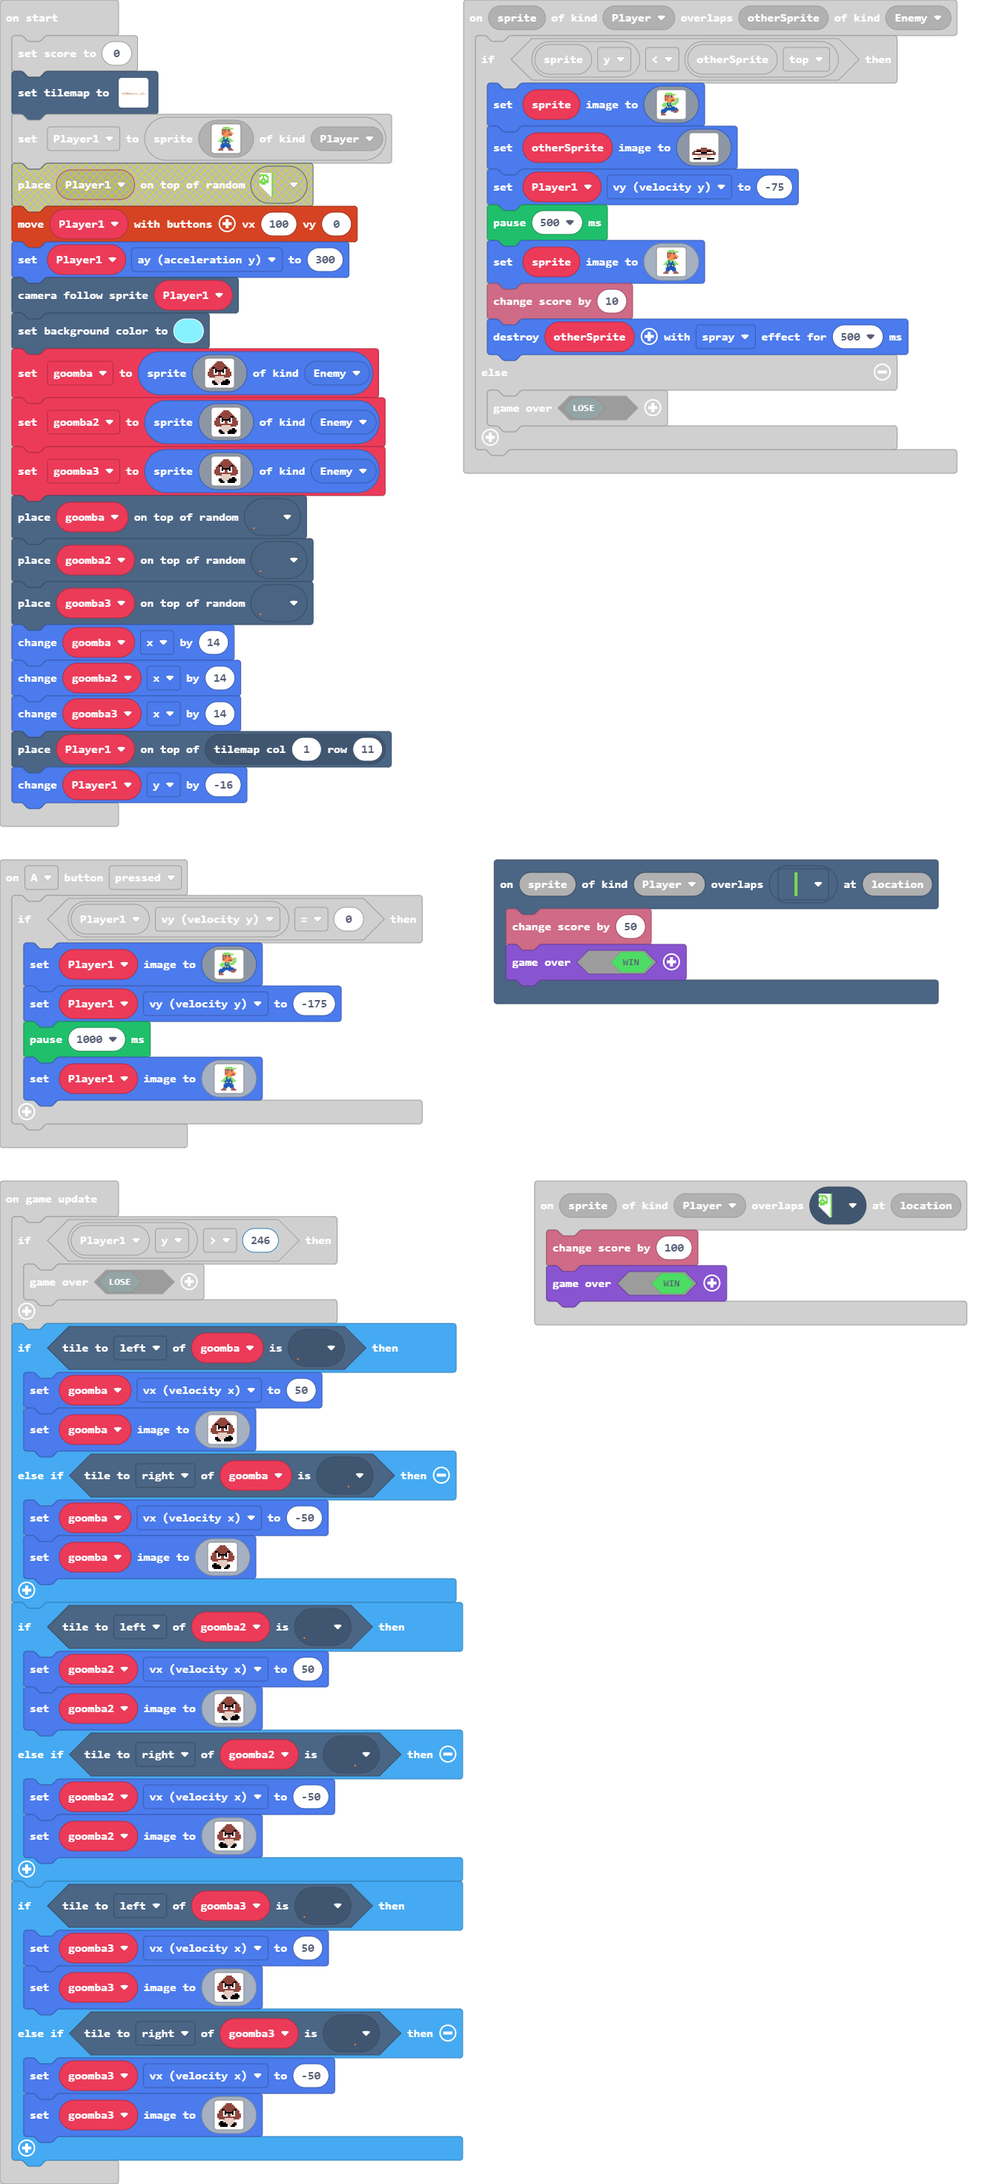
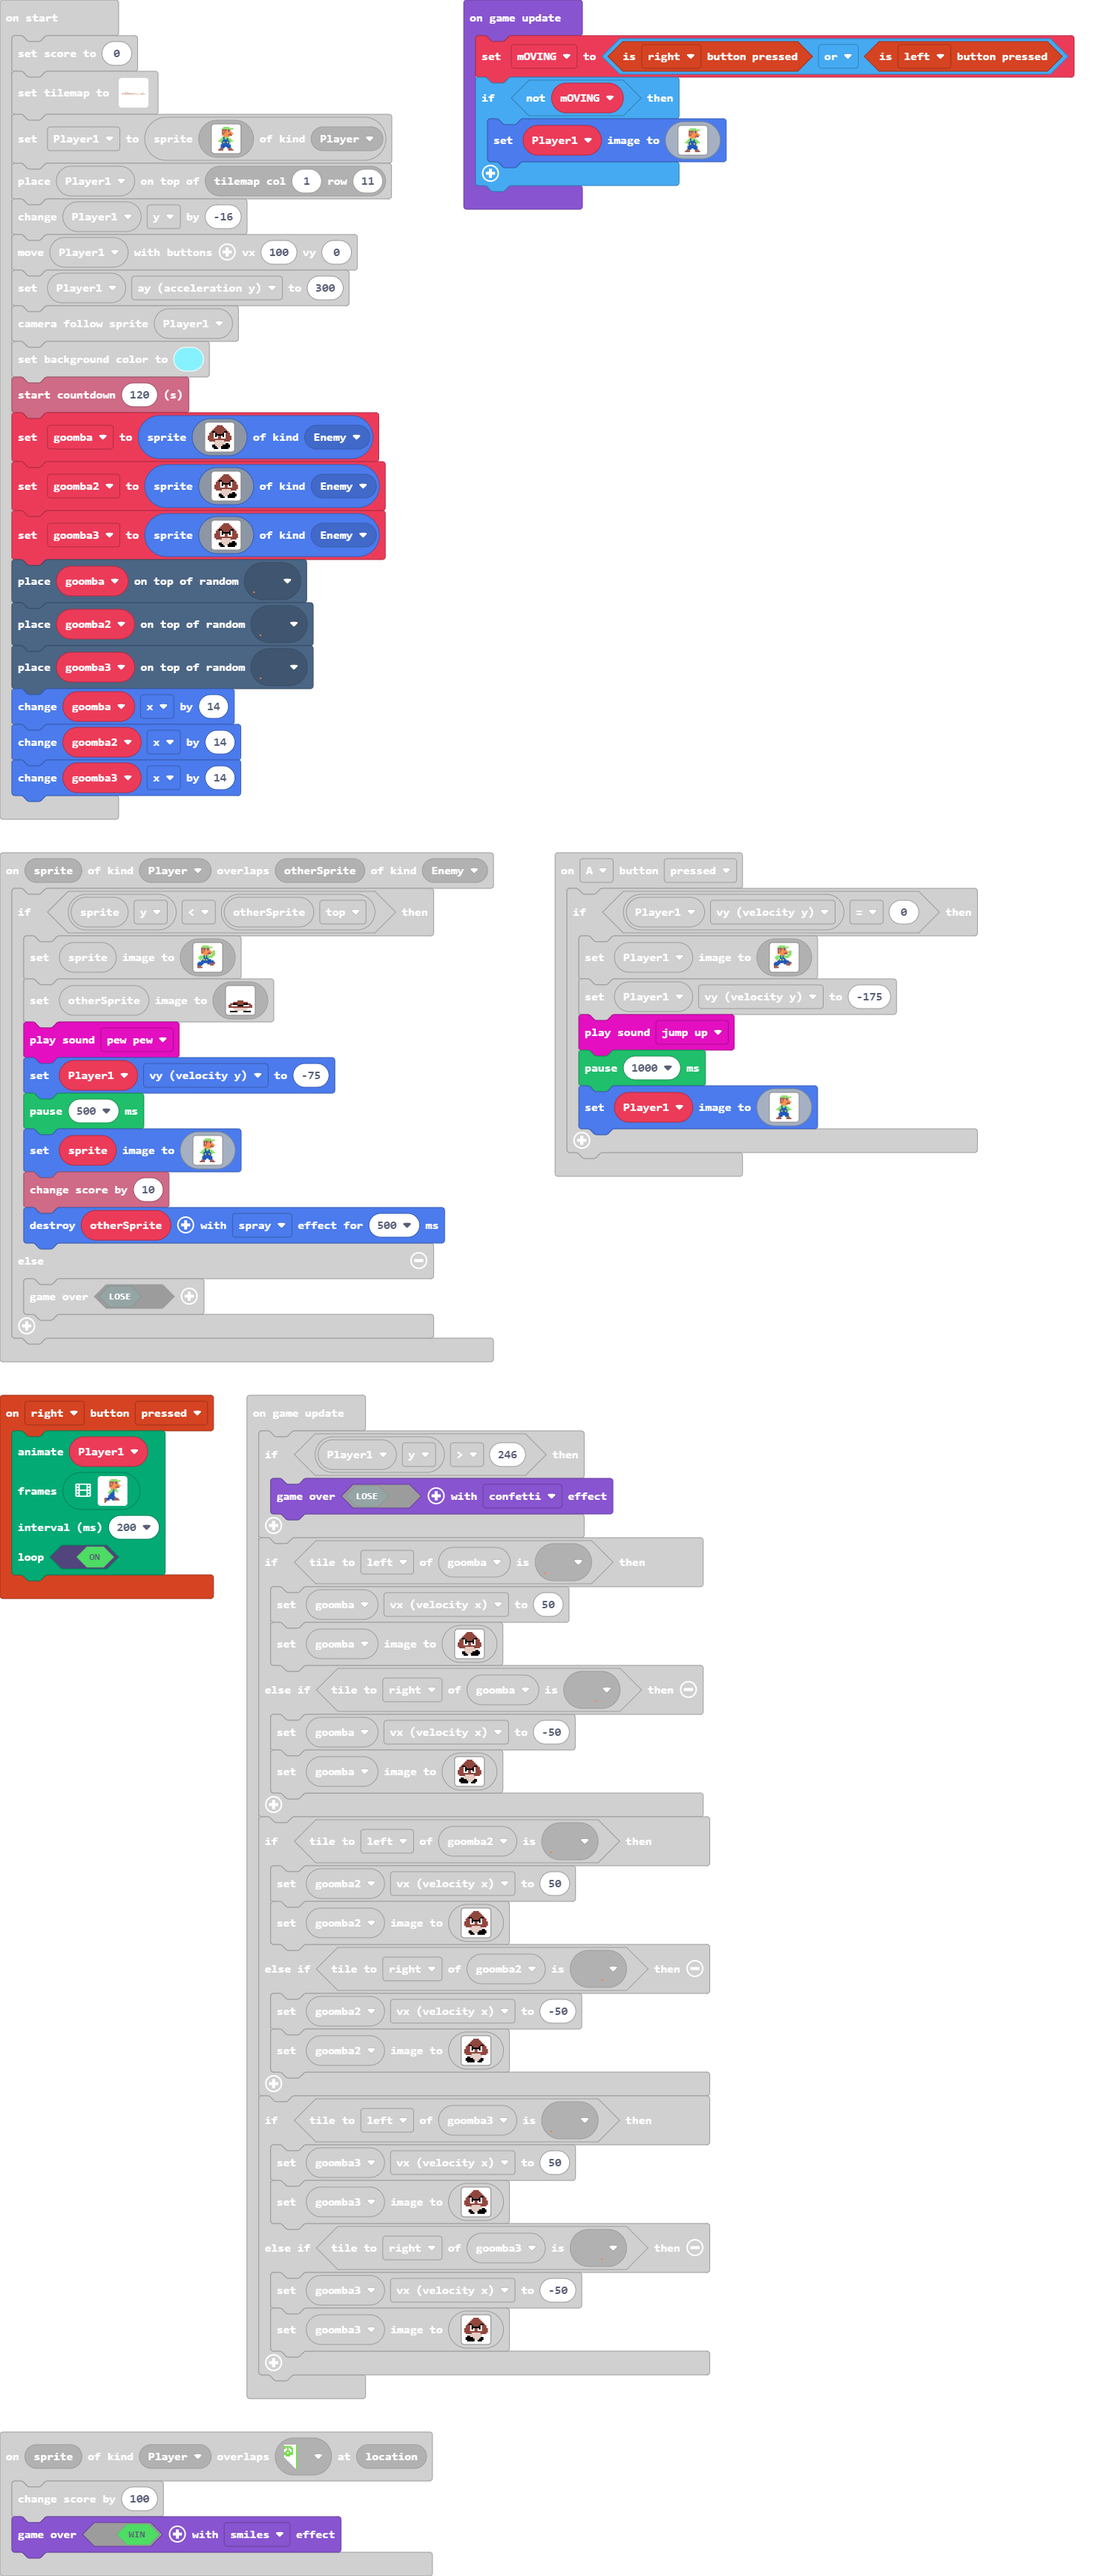
Update pxt.json, main.blocks, main.ts

diff --git a/main.ts b/main.ts
@@ -22,6 +22,7 @@ controller.A.onEvent(ControllerButtonEvent.Pressed, function () {
             ................
             `)
         Player1.vy = -175
+        music.jumpUp.play()
         pause(1000)
         Player1.setImage(img`
             ......777771....
@@ -46,13 +47,81 @@ controller.A.onEvent(ControllerButtonEvent.Pressed, function () {
             `)
     }
 })
+controller.right.onEvent(ControllerButtonEvent.Pressed, function () {
+    animation.runImageAnimation(
+    Player1,
+    [img`
+        . . . . . 7 7 7 7 7 . . . 
+        . . . . 7 7 7 7 7 7 7 7 7 
+        . . . . e e e e 4 8 4 . . 
+        . . . . e 4 e 4 4 8 4 . . 
+        . . . . e 4 e 4 4 4 4 4 . 
+        . . . . e e 4 4 4 4 e 4 4 
+        . . . . 4 4 4 4 4 e e e . 
+        . . . . . 4 4 4 4 4 . . . 
+        . . . . . 7 7 8 7 7 . . . 
+        . . . . 7 7 7 8 7 7 7 1 1 
+        . 1 1 7 7 7 8 8 . . 7 1 1 
+        . 1 1 7 7 8 8 8 . . . . . 
+        . . . . 8 8 8 8 . . . . . 
+        . . . 8 8 8 8 8 . . . . . 
+        . . . 8 8 8 8 8 8 . . . . 
+        e e 8 8 8 8 8 8 e e e . . 
+        e e 8 8 . . 8 8 e e e e . 
+        e e . . . . . . . . . . . 
+        e . . . . . . . . . . . . 
+        `,img`
+        . . . . . . . . . . . . . 
+        . . . . . 7 7 7 7 7 . . . 
+        . . . . 7 7 7 7 7 7 7 7 7 
+        . . . . e e e e 4 8 4 . . 
+        . . . . e 4 e 4 4 8 4 . . 
+        . . . . e 4 e 4 4 4 4 4 . 
+        . . . . e e 4 4 4 4 e 4 4 
+        1 1 . . 4 4 4 4 4 e e e . 
+        1 1 7 7 . 4 4 4 4 4 . . . 
+        . 7 7 7 7 8 8 7 7 7 . . . 
+        . . 7 7 8 8 8 7 7 7 7 . . 
+        . . . . 8 8 8 8 5 7 7 . . 
+        . . . 8 8 8 8 8 8 . 1 1 . 
+        e e 8 8 8 8 8 8 8 . 1 1 . 
+        e e 8 8 8 8 8 8 8 . . . . 
+        e e . . 8 8 8 8 8 8 . . . 
+        e . . . . . 8 8 8 8 . . . 
+        . . . . . . . . e e e . . 
+        . . . . . . . . e e e e . 
+        `,img`
+        . . . . . . . . . . . . . 
+        . . . . . . . . . . . . . 
+        . . . . 7 7 7 7 7 . . . . 
+        . . . 7 7 7 7 7 7 7 7 7 . 
+        . . . e e e e 4 4 8 . . . 
+        . . . e e e 4 4 4 8 . . . 
+        . 1 1 e e e 4 4 4 4 4 . . 
+        . 1 1 e e 4 4 4 4 e 4 4 . 
+        . 7 7 4 4 4 4 4 e e e . . 
+        . . 7 7 4 4 4 4 4 . . . . 
+        . . 7 7 8 7 7 . . . . . . 
+        . . . 7 8 8 8 7 7 7 . . . 
+        . . . . 8 8 8 8 7 7 7 . . 
+        . . . 8 8 8 8 8 8 1 1 . . 
+        . . . 8 8 8 8 8 8 1 1 . . 
+        e e 8 8 8 8 8 8 8 . . . . 
+        e e 8 8 . 8 8 8 8 . . . . 
+        e e . . . . . e e e . . . 
+        e . . . . . . e e e e . . 
+        `],
+    200,
+    true
+    )
+})
 scene.onOverlapTile(SpriteKind.Player, myTiles.tile6, function (sprite, location) {
     info.changeScoreBy(50)
     game.over(true)
 })
 scene.onOverlapTile(SpriteKind.Player, myTiles.tile1, function (sprite, location) {
     info.changeScoreBy(100)
-    game.over(true)
+    game.over(true, effects.smiles)
 })
 sprites.onOverlap(SpriteKind.Player, SpriteKind.Enemy, function (sprite, otherSprite) {
     if (sprite.y < otherSprite.top) {
@@ -95,6 +164,7 @@ sprites.onOverlap(SpriteKind.Player, SpriteKind.Enemy, function (sprite, otherSp
             . . . . d d d d d d d d . . . . 
             . f f f f f . . . . f f f f f . 
             `)
+        music.pewPew.play()
         Player1.vy = -75
         pause(500)
         sprite.setImage(img`
@@ -124,6 +194,7 @@ sprites.onOverlap(SpriteKind.Player, SpriteKind.Enemy, function (sprite, otherSp
         game.over(false)
     }
 })
+let mOVING = false
 let Player1: Sprite = null
 info.setScore(0)
[1 lines of base64/hex data omitted]
@@ -171,6 +242,7 @@ controller.moveSprite(Player1, 100, 0)
 Player1.ay = 300
 scene.cameraFollowSprite(Player1)
 scene.setBackgroundColor(9)
+info.startCountdown(120)
 let goomba = sprites.create(img`
     . . . . . . e e e e . . . . . . 
     . . . . . e e e e e e . . . . . 
@@ -231,6 +303,32 @@ tiles.placeOnRandomTile(goomba3, myTiles.tile10)
 goomba.x += 14
 goomba2.x += 14
 goomba3.x += 14
+game.onUpdate(function () {
+    mOVING = controller.right.isPressed() || controller.left.isPressed()
+    if (!(mOVING)) {
+        Player1.setImage(img`
+            ......777771....
+            .....777777777..
+            .....eeee484....
+            .....e4e4484....
+            .....e4e44444...
+            .....ee4444e44..
+            .....44444eee...
+            ......44444.....
+            .....78777......
+            ....77877877....
+            ...7778888777...
+            ..777888888777..
+            ..117858858711..
+            ..111888888111..
+            ..118888888811..
+            ....88888888....
+            ....888..888....
+            ...eee....eee...
+            ..eeee....eeee..
+            `)
+    }
+})
 game.onUpdate(function () {
     if (Player1.y > 246) {
         game.over(false)
